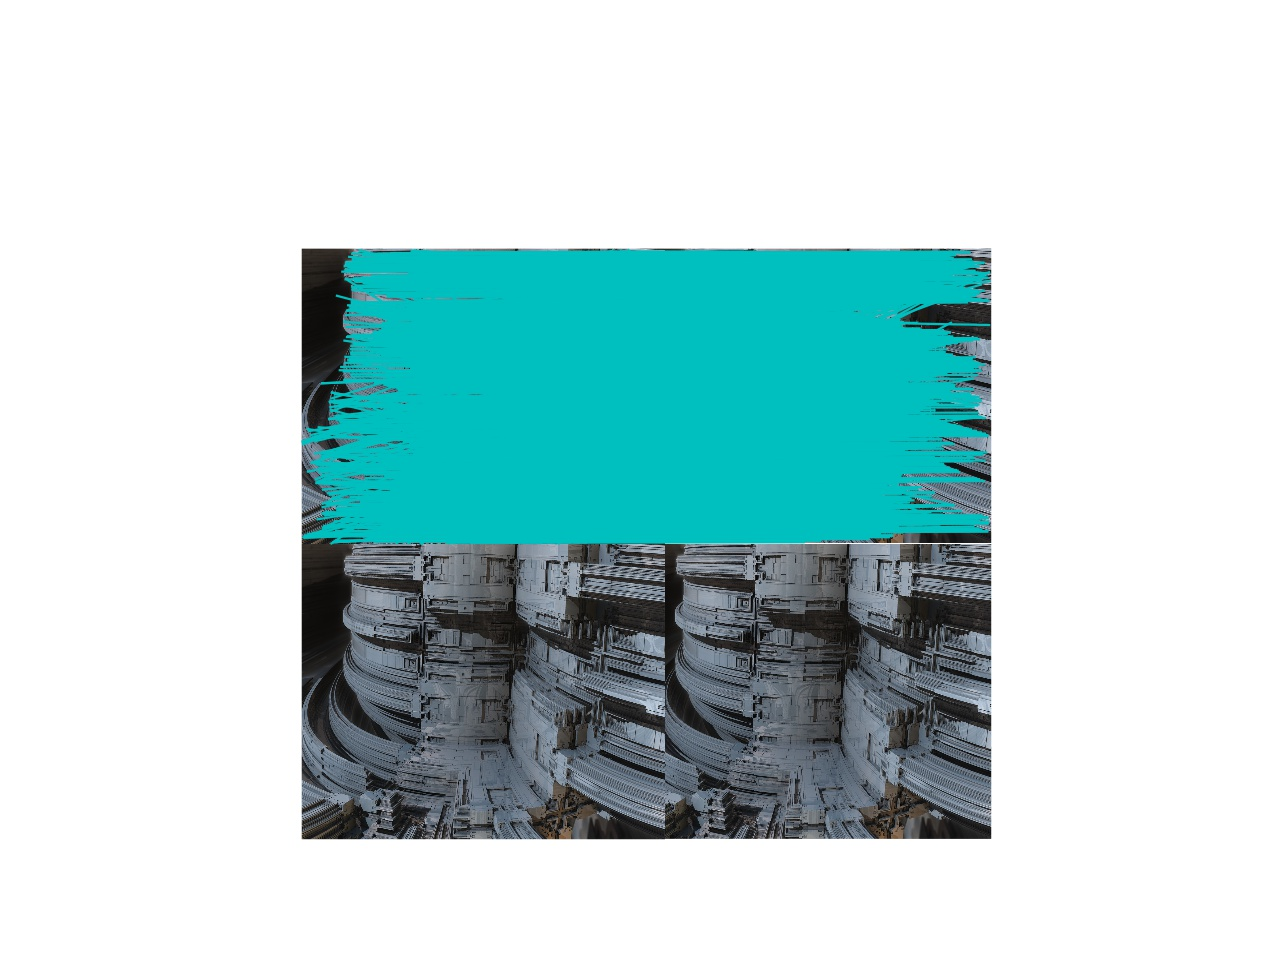
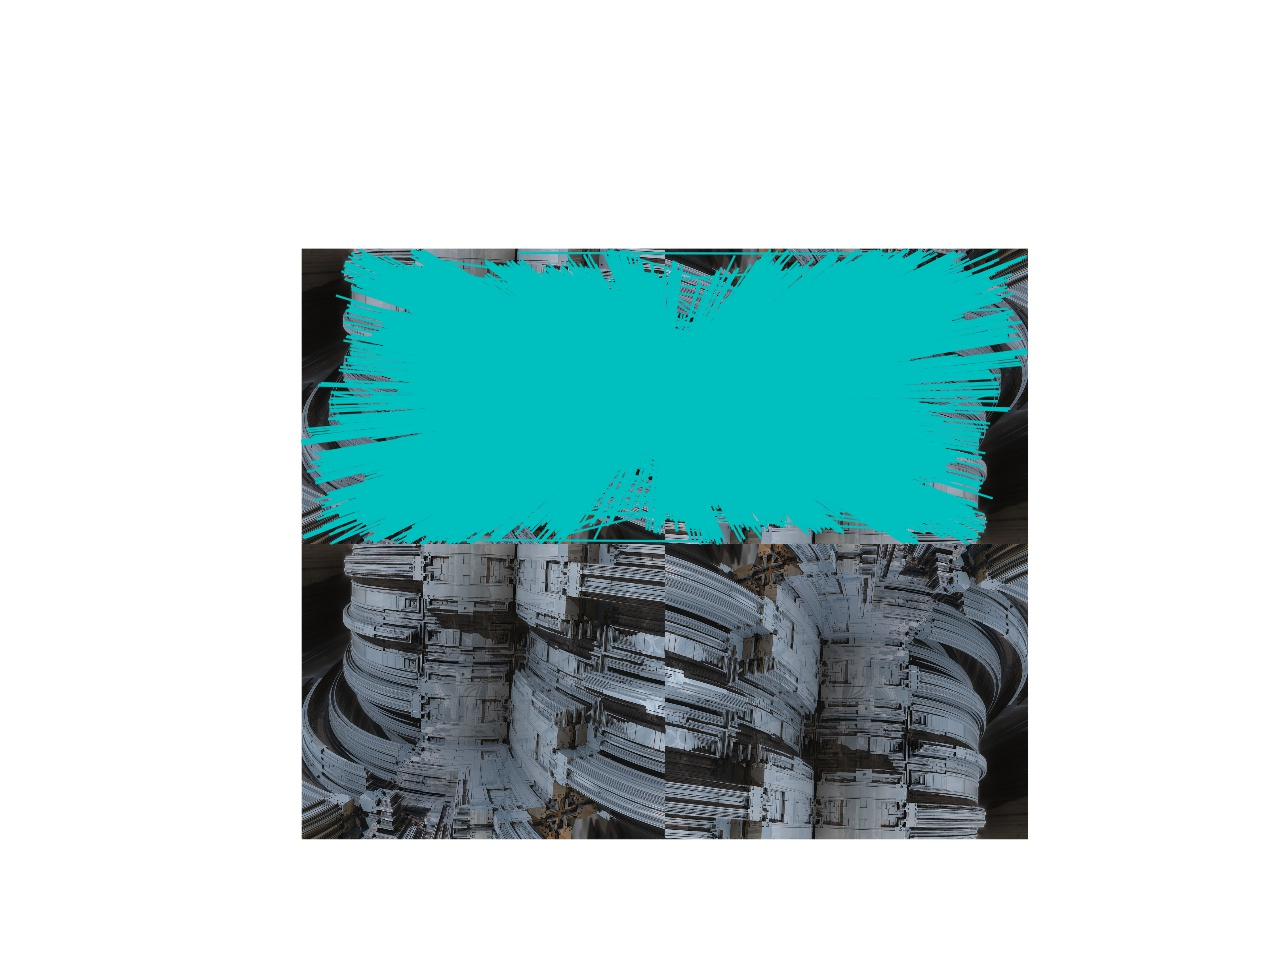
prob2-4

Changed region(s): [[0.2188, 0.25, 0.8125, 0.875]]

diff --git a/実践コンピュータビジョン/prob2-4/testprob24.py b/実践コンピュータビジョン/prob2-4/testprob24.py
@@ -1,0 +1,13 @@
+import sys
+sys.path.append('../siftsample')
+import unittest, siftsample
+
+class Test_testprob2_4(unittest.TestCase):
+    def test_prob24(self):
+        obj1 = siftsample.SiftSample()
+        obj2 = siftsample.SiftSample("small_image.jpg")
+        obj  = siftsample.SiftMatch(obj1, obj2)
+        obj.plot_matches("sift_match.jpg", match_maximum = 10)
+
+if __name__ == '__main__':
+    unittest.main()

diff --git a/実践コンピュータビジョン/matchsample/matchsample.py b/実践コンピュータビジョン/matchsample/matchsample.py
@@ -24,6 +24,10 @@ class MatchSample(object):
 
     def appendimages(self):
         """ 2つの画像を左右に並べた画像を返す """
+        if self._image_1.is_color():
+             self._image_1.convert_grey()
+        if self._image_2.is_color():
+             self._image_2.convert_grey()
         im1 = self._image_1.get_array_image()
         im2 = self._image_2.get_array_image()
 

diff --git a/実践コンピュータビジョン/siftsample/testsiftsample.py b/実践コンピュータビジョン/siftsample/testsiftsample.py
@@ -22,7 +22,7 @@ class Test_testsiftsample(unittest.TestCase):
 
     def test_plot_matches(self):
         obj1 = siftsample.SiftSample()
-        obj2 = siftsample.SiftSample("cut_image.jpg")
+        obj2 = siftsample.SiftSample("reverse_image.jpg")
         obj  = siftsample.SiftMatch(obj1, obj2)
         obj.plot_matches("sift_match.jpg")
 
